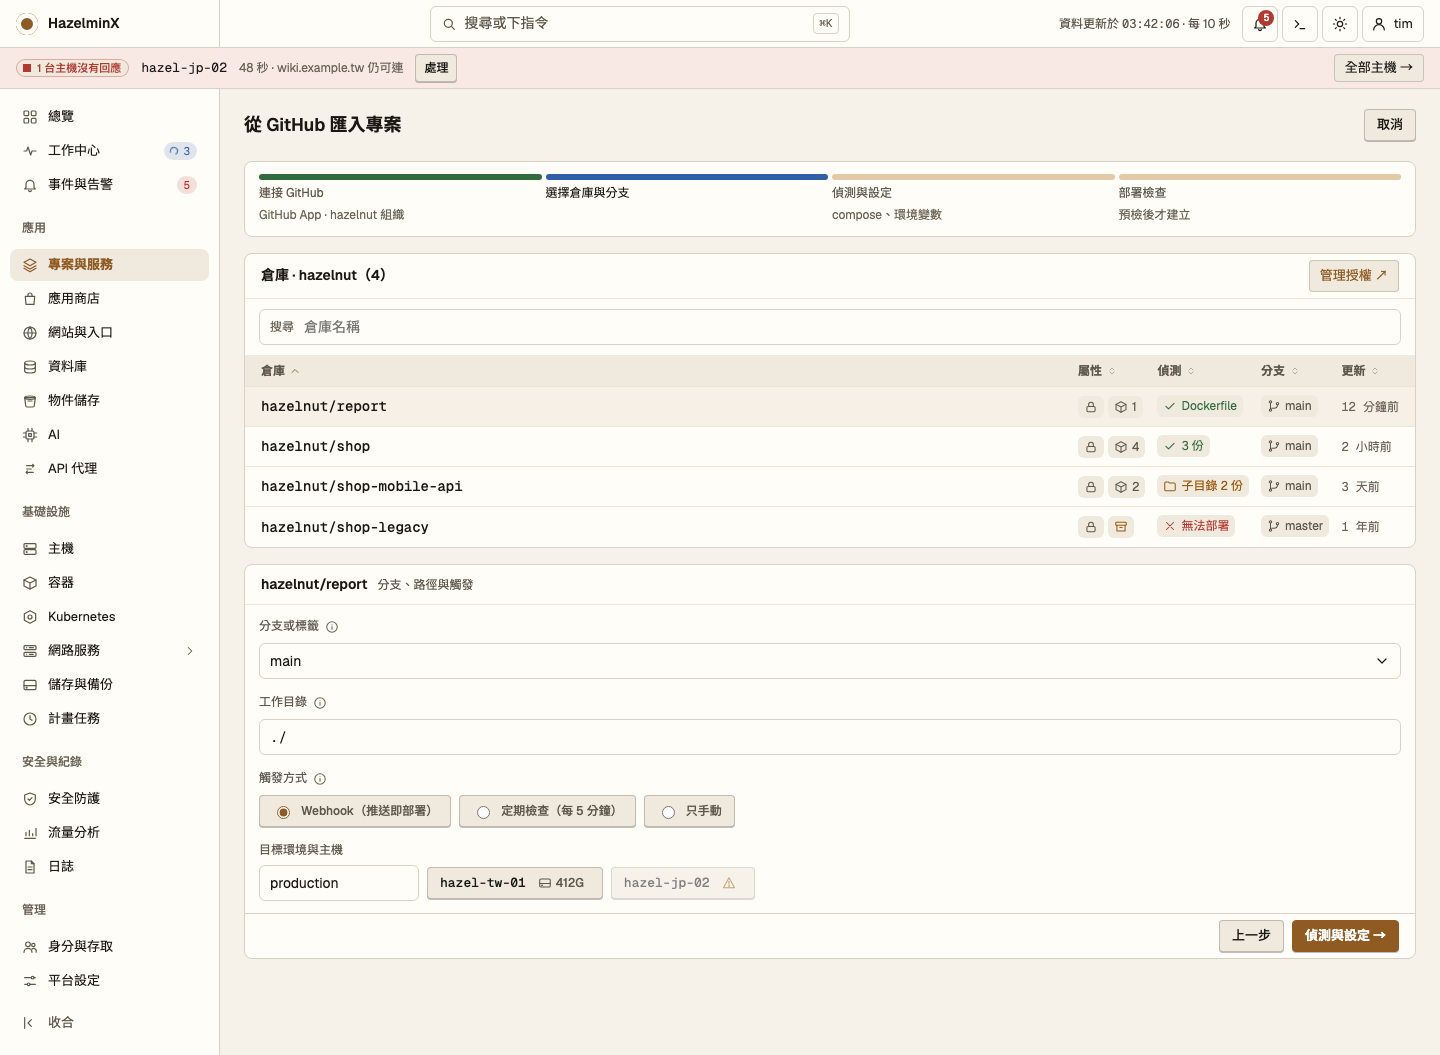
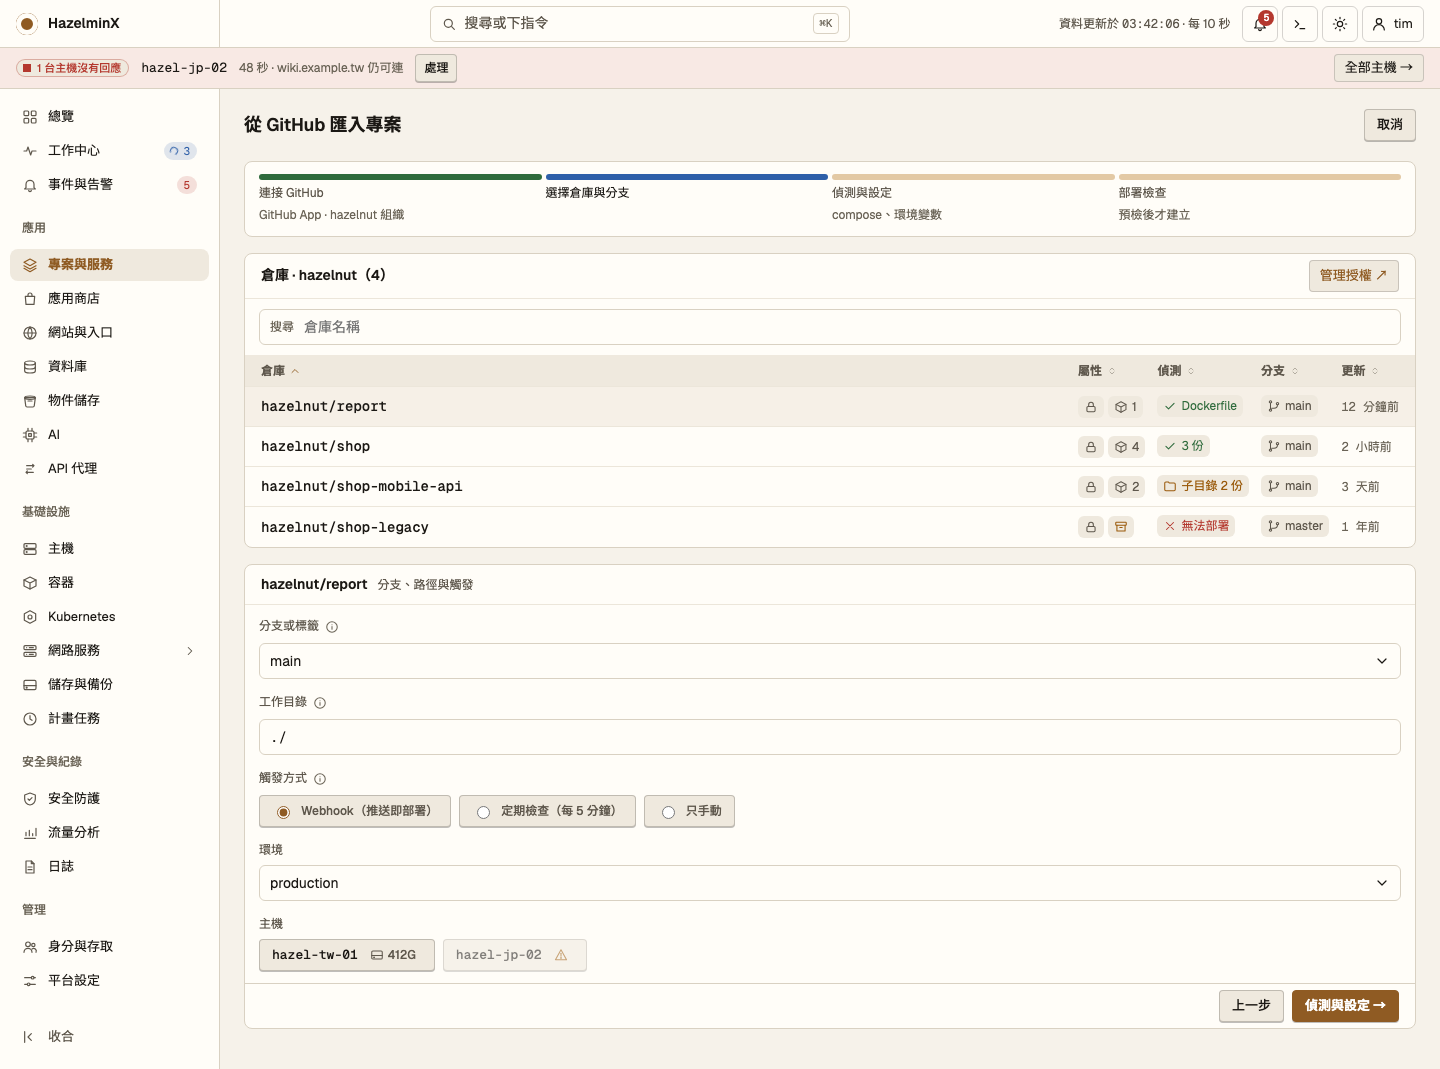
design: make the target environment a dropdown on the GitHub source board

diff --git a/design/screens/GitHubSource.dc.html b/design/screens/GitHubSource.dc.html
@@ -515,7 +515,8 @@ body{margin:0}
         <div class="field"><label>分支或標籤 <span class="hint" tabindex="0" role="img" aria-label="最新 4d81a2c · 12 分鐘前" data-tip="最新 4d81a2c · 12 分鐘前"><svg viewBox="0 0 24 24" width="14" height="14" fill="none" stroke="currentColor" stroke-width="1.8" stroke-linecap="round" stroke-linejoin="round" aria-hidden="true"><circle cx="12" cy="12" r="9"/><path d="M12 11v5M12 8h.01"/></svg></span></label><div class="inp"><span style="flex:1;min-width:0;overflow-wrap:anywhere">main</span><svg viewBox="0 0 24 24" width="16" height="16" fill="none" stroke="currentColor" stroke-width="1.8" stroke-linecap="round" stroke-linejoin="round" aria-hidden="true"><path d="m6 9 6 6 6-6"/></svg></div></div>
         <div class="field"><label>工作目錄 <span class="hint" tabindex="0" role="img" aria-label="monorepo 改成子目錄，例如 ./deploy" data-tip="monorepo 改成子目錄，例如 ./deploy"><svg viewBox="0 0 24 24" width="14" height="14" fill="none" stroke="currentColor" stroke-width="1.8" stroke-linecap="round" stroke-linejoin="round" aria-hidden="true"><circle cx="12" cy="12" r="9"/><path d="M12 11v5M12 8h.01"/></svg></span></label><div class="inp"><span class="mono" style="flex:1;min-width:0;overflow-wrap:anywhere">./</span></div></div>
         <div class="field"><label>觸發方式 <span class="hint" tabindex="0" role="img" aria-label="Webhook 會在 GitHub 上建立；沒有公開入口時自動改用定期檢查。" data-tip="Webhook 會在 GitHub 上建立；沒有公開入口時自動改用定期檢查。"><svg viewBox="0 0 24 24" width="14" height="14" fill="none" stroke="currentColor" stroke-width="1.8" stroke-linecap="round" stroke-linejoin="round" aria-hidden="true"><circle cx="12" cy="12" r="9"/><path d="M12 11v5M12 8h.01"/></svg></span></label><div class="wrap"><label class="btn" style="gap:8px"><input type="radio" name="trig" aria-label="觸發方式" checked style="accent-color: var(--hazel)">Webhook（推送即部署）</label><label class="btn" style="gap:8px"><input type="radio" name="trig" aria-label="觸發方式" style="accent-color: var(--hazel)">定期檢查（每 5 分鐘）</label><label class="btn" style="gap:8px"><input type="radio" name="trig" aria-label="觸發方式" style="accent-color: var(--hazel)">只手動</label></div></div>
-        <div class="field"><label for="env">目標環境與主機</label><div class="wrap"><div class="inp" style="width:auto;min-width:160px"><span>production</span></div><div class="wrap" role="radiogroup" aria-label="目標主機"><button type="button" class="btn on" role="radio" aria-checked="true"><span class="mono">hazel-tw-01</span><span class="at " tabindex="0" role="img" aria-label="/mnt/data 可用 412 GiB" data-tip="/mnt/data 可用 412 GiB"><svg viewBox="0 0 24 24" width="14" height="14" fill="none" stroke="currentColor" stroke-width="1.8" stroke-linecap="round" stroke-linejoin="round" aria-hidden="true"><rect x="3" y="5" width="18" height="14" rx="2"/><path d="M3 13h18"/><circle cx="7" cy="16" r=".7"/></svg><span>412G</span></span></button><button type="button" class="btn" role="radio" aria-checked="false" aria-disabled="true" style="opacity:.55"><span class="mono">hazel-jp-02</span><span class="at warn" tabindex="0" role="img" aria-label="不可選：沒有回應、資料碟 93%" data-tip="不可選：沒有回應、資料碟 93%"><svg viewBox="0 0 24 24" width="14" height="14" fill="none" stroke="currentColor" stroke-width="1.8" stroke-linecap="round" stroke-linejoin="round" aria-hidden="true"><path d="M12 3 2.5 20h19L12 3z"/><path d="M12 9v5"/><circle cx="12" cy="17" r=".6"/></svg></span></button></div></div></div>
+        <div class="field"><label>環境</label><div class="inp"><span style="flex:1;min-width:0;overflow-wrap:anywhere">production</span><svg viewBox="0 0 24 24" width="16" height="16" fill="none" stroke="currentColor" stroke-width="1.8" stroke-linecap="round" stroke-linejoin="round" aria-hidden="true"><path d="m6 9 6 6 6-6"/></svg></div></div>
+        <div class="field"><label>主機</label><div class="wrap"><div class="wrap" role="radiogroup" aria-label="目標主機"><button type="button" class="btn on" role="radio" aria-checked="true"><span class="mono">hazel-tw-01</span><span class="at " tabindex="0" role="img" aria-label="/mnt/data 可用 412 GiB" data-tip="/mnt/data 可用 412 GiB"><svg viewBox="0 0 24 24" width="14" height="14" fill="none" stroke="currentColor" stroke-width="1.8" stroke-linecap="round" stroke-linejoin="round" aria-hidden="true"><rect x="3" y="5" width="18" height="14" rx="2"/><path d="M3 13h18"/><circle cx="7" cy="16" r=".7"/></svg><span>412G</span></span></button><button type="button" class="btn" role="radio" aria-checked="false" aria-disabled="true" style="opacity:.55"><span class="mono">hazel-jp-02</span><span class="at warn" tabindex="0" role="img" aria-label="不可選：沒有回應、資料碟 93%" data-tip="不可選：沒有回應、資料碟 93%"><svg viewBox="0 0 24 24" width="14" height="14" fill="none" stroke="currentColor" stroke-width="1.8" stroke-linecap="round" stroke-linejoin="round" aria-hidden="true"><path d="M12 3 2.5 20h19L12 3z"/><path d="M12 9v5"/><circle cx="12" cy="17" r=".6"/></svg></span></button></div></div></div>
       </div>
       <div class="ph" style="border-top: 1px solid var(--line); border-bottom: 0"><div class="wrap" style="margin-left:auto"><a class="btn" href="Projects.dc.html">上一步</a><a class="btn pri" href="ImportConfigure.dc.html">偵測與設定 →</a></div></div>
     </section></div></main></div></div>

diff --git a/design/tools/build_screens.py b/design/tools/build_screens.py
@@ -779,7 +779,8 @@ def github_source() -> str:
         {_fld("分支或標籤", _dd("main"), "最新 4d81a2c · 12 分鐘前")}
         {_fld("工作目錄", _in("./", mono=True), "monorepo 改成子目錄，例如 ./deploy")}
         <div class="field"><label>觸發方式</label><div class="wrap"><label class="btn" style="gap:8px"><input type="radio" name="trig" aria-label="觸發方式" checked style="accent-color: var(--hazel)">Webhook（推送即部署）</label><label class="btn" style="gap:8px"><input type="radio" name="trig" aria-label="觸發方式" style="accent-color: var(--hazel)">定期檢查（每 5 分鐘）</label><label class="btn" style="gap:8px"><input type="radio" name="trig" aria-label="觸發方式" style="accent-color: var(--hazel)">只手動</label></div><span class="help">Webhook 會在 GitHub 上建立；沒有公開入口時自動改用定期檢查。</span></div>
-        <div class="field"><label for="env">目標環境與主機</label><div class="wrap"><div class="inp" style="width:auto;min-width:160px"><span>production</span></div><div class="wrap" role="radiogroup" aria-label="目標主機"><button type="button" class="btn on" role="radio" aria-checked="true"><span class="mono">hazel-tw-01</span>{U.attr("storage", "/mnt/data 可用 412 GiB", "412G")}</button><button type="button" class="btn" role="radio" aria-checked="false" aria-disabled="true" style="opacity:.55"><span class="mono">hazel-jp-02</span>{U.attr("attention", "不可選：沒有回應、資料碟 93%", "", "warn")}</button></div></div></div>
+        {_fld("環境", _dd("production"))}
+        <div class="field"><label>主機</label><div class="wrap"><div class="wrap" role="radiogroup" aria-label="目標主機"><button type="button" class="btn on" role="radio" aria-checked="true"><span class="mono">hazel-tw-01</span>{U.attr("storage", "/mnt/data 可用 412 GiB", "412G")}</button><button type="button" class="btn" role="radio" aria-checked="false" aria-disabled="true" style="opacity:.55"><span class="mono">hazel-jp-02</span>{U.attr("attention", "不可選：沒有回應、資料碟 93%", "", "warn")}</button></div></div></div>
       </div>
       <div class="ph" style="border-top: 1px solid var(--line); border-bottom: 0"><div class="wrap" style="margin-left:auto"><a class="btn" href="Projects.dc.html">上一步</a><a class="btn pri" href="ImportConfigure.dc.html">偵測與設定 →</a></div></div>
     </section>"""
